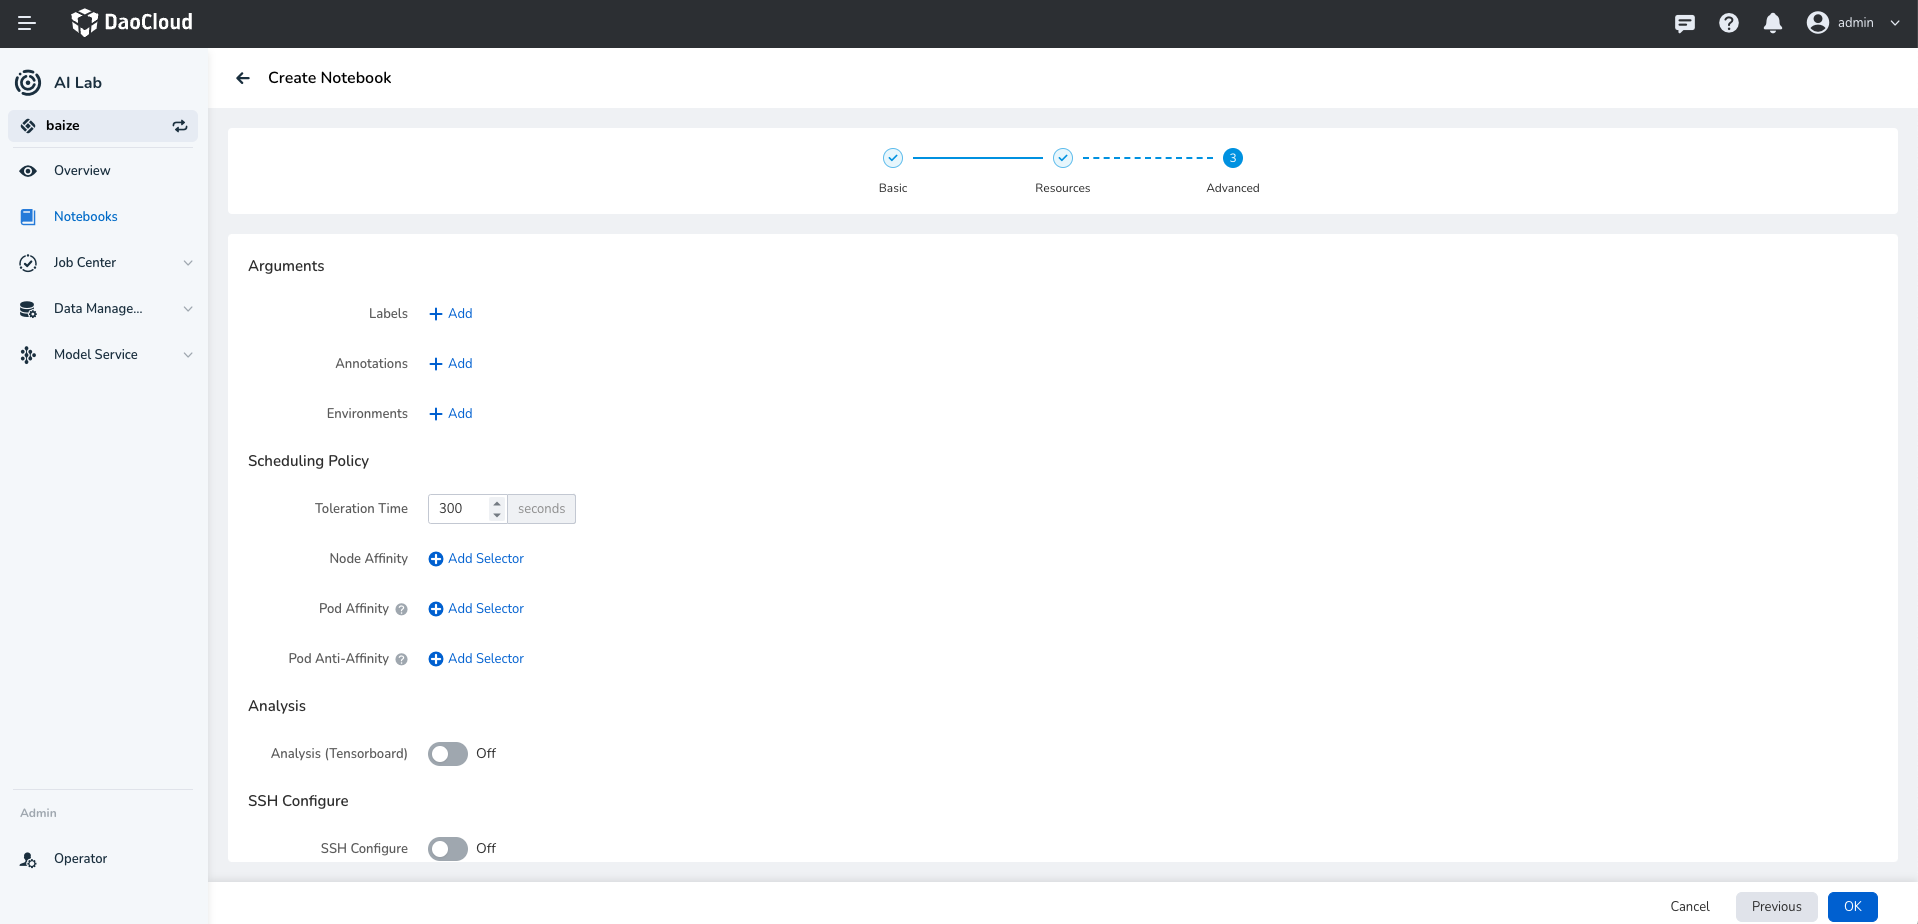
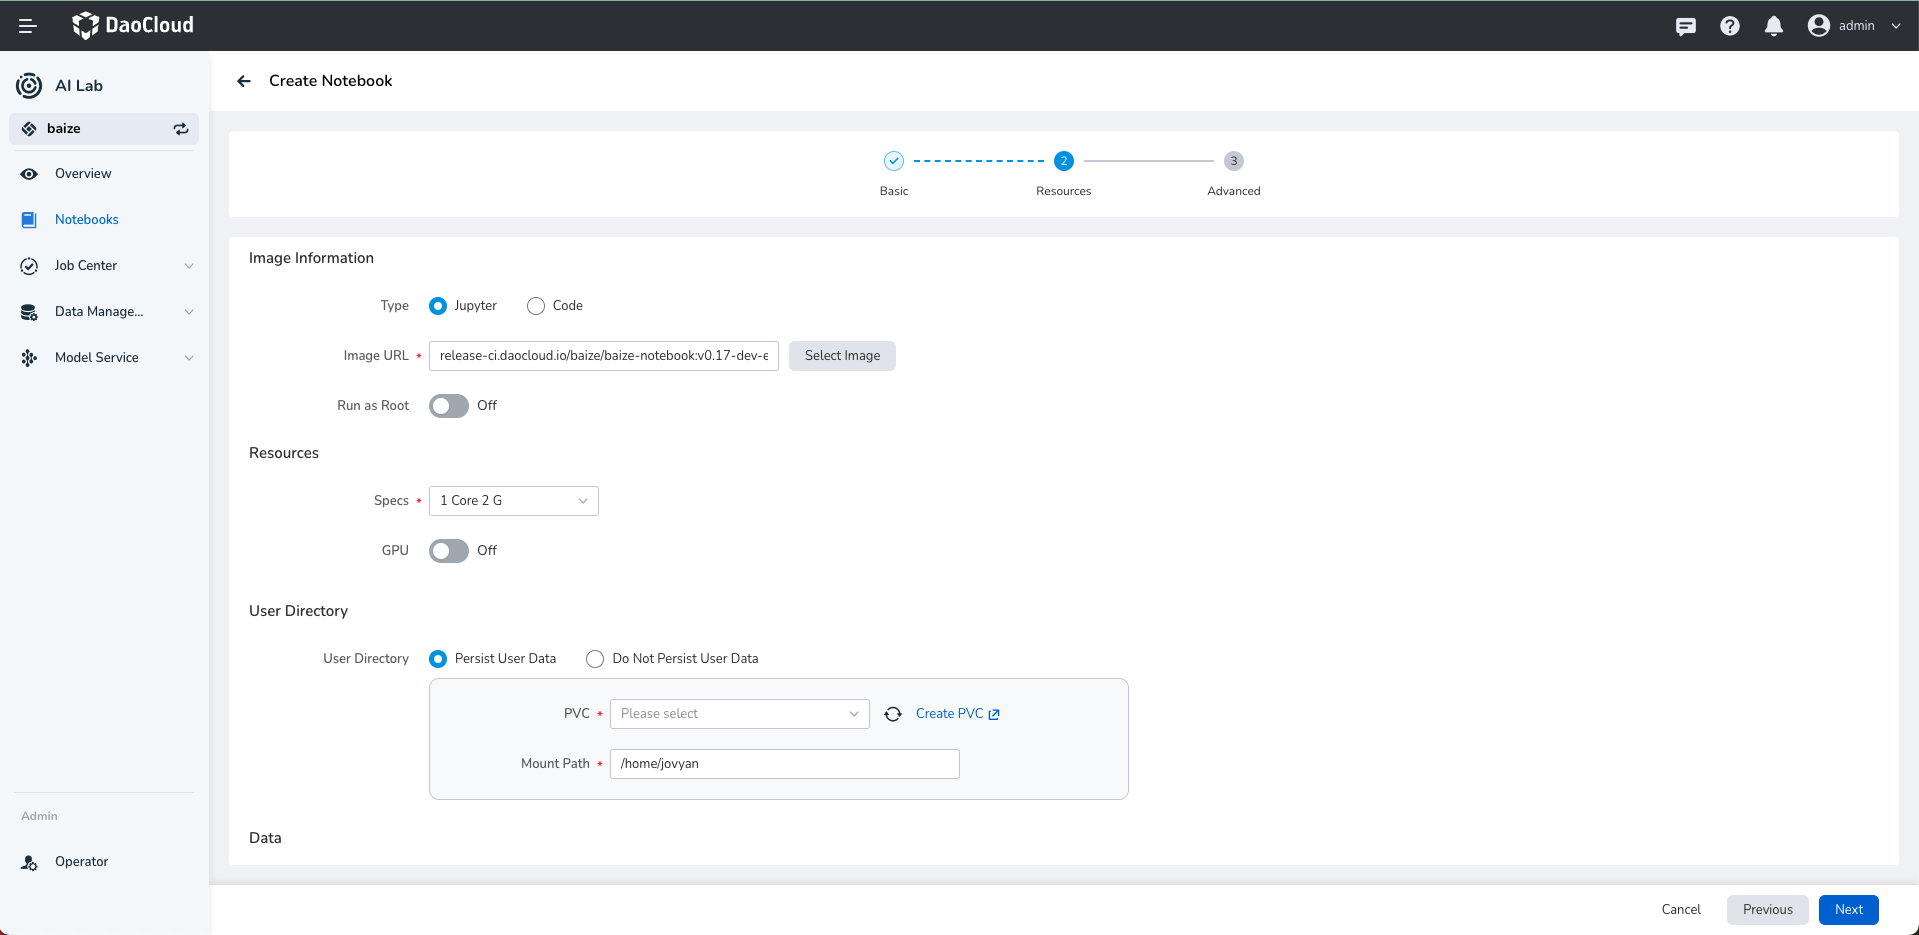
add Resources configuration in the baize/developer/notebooks/create (#6488)

diff --git a/docs/en/docs/baize/developer/notebooks/create.md b/docs/en/docs/baize/developer/notebooks/create.md
@@ -15,15 +15,18 @@ Upon entering the developer console, developers can create and manage Notebooks 
 
     ![click button](../../images/notebook01.png)
 
-1. The system will pre-fill basic configuration data, including the cluster, namespace,
-   queue, priority, resources, and job arguments. Adjust these arguments and click **OK**.
+1. The system will pre-fill basic configuration data, including the cluster, namespace, queue and priority.
 
     ![fill forms](../../images/notebook02.png)
+
+1. In the **Resources** page, the system will pre-fill part of configuration data, including the image type, image URL and resource specs, while you can manually add the data and environment settings.
+
+    ![fill forms](../../images/notebook06.png)
 
 1. In the **Advanced** page, you can customize arguments, scheduling policies, analysis, SSH, and auto-saving.
    Adjust these arguments and click **OK**.
 
-    ![fill forms](../../images/notebook06.png)
+    ![fill forms](../../images/notebook07.png)
 
 1. The newly created Notebook will initially be in the **Pending** state, and will change to **Running**
    after a moment, with the latest one appearing at the top of the list by default.
